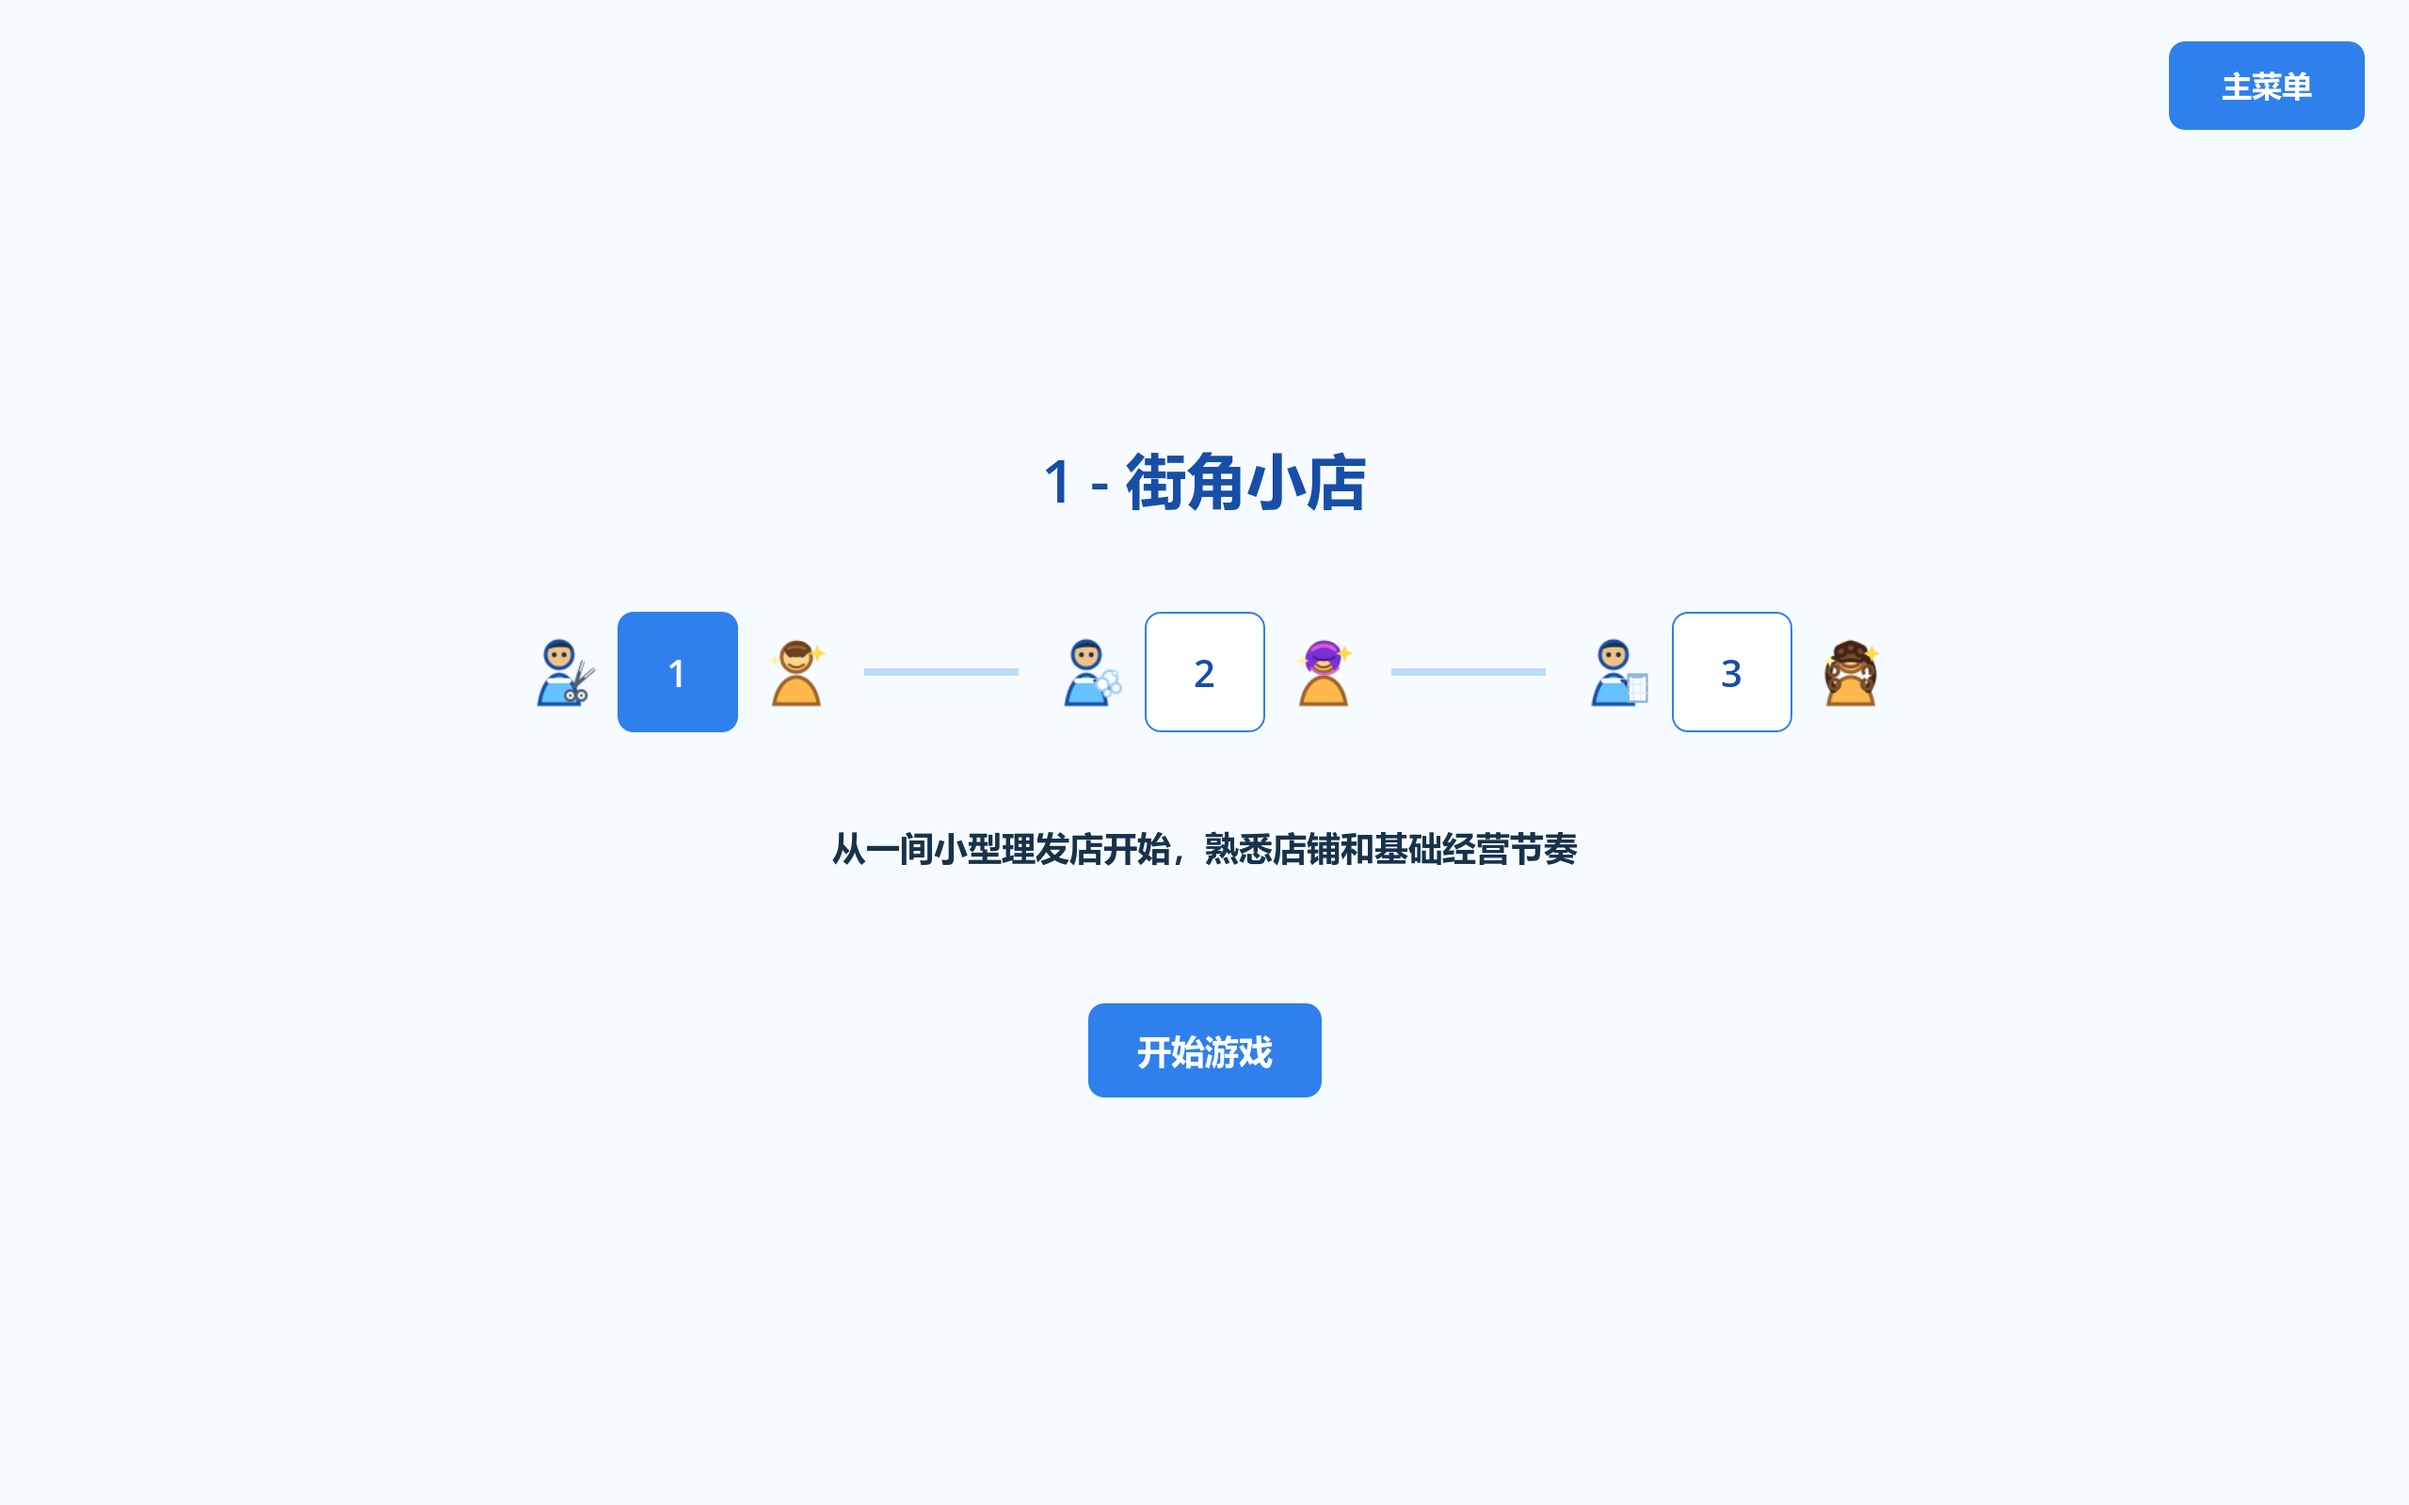
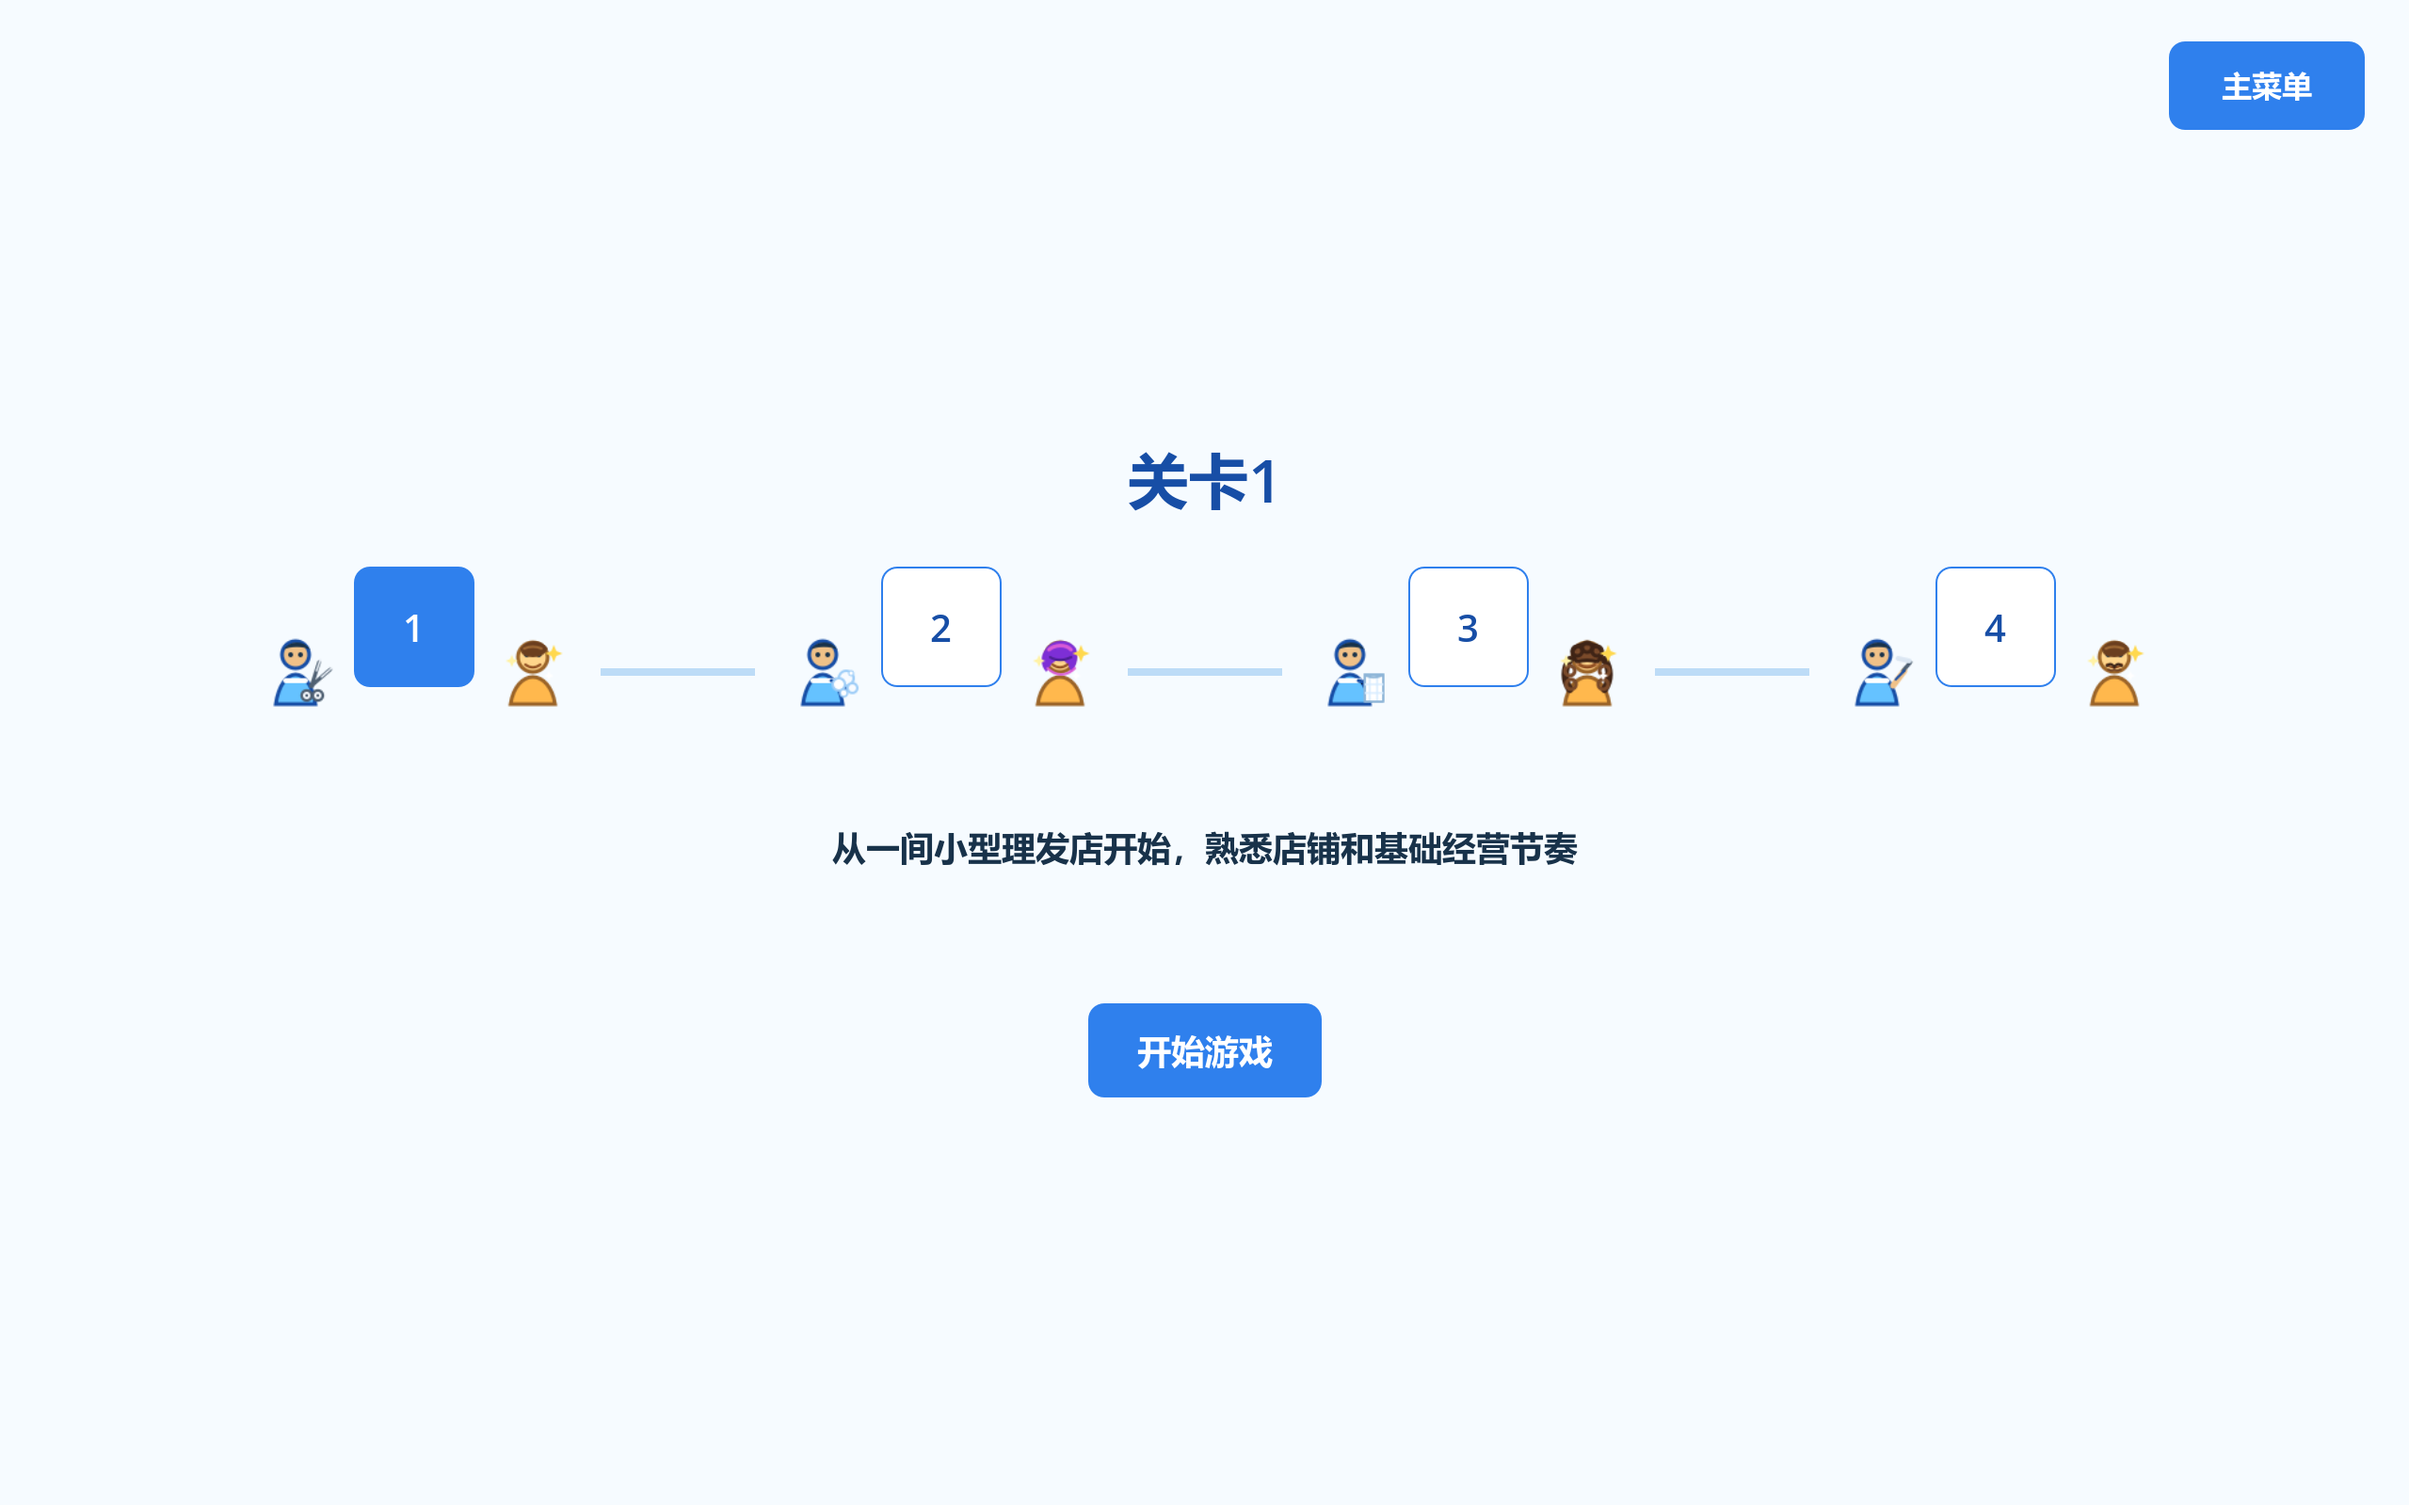
新阳美发沙龙 beta

diff --git a/js/data/product-download-pages.js b/js/data/product-download-pages.js
@@ -39,16 +39,30 @@ var productDownloadPageData = {
             {
                 tabLabel: "Windows版",
                 downloadTitle: "新阳美发沙龙",
-                version: "alpha",
+                version: "beta",
                 supportLabel: "支持系统",
                 supportValue: "Windows",
                 language: "中文(简体)",
                 size: "105 MB",
-                updateDate: "2026.07.18",
+                updateDate: "2026.07.26",
                 downloadLabel: "下 载",
-                downloadHref: "https://pan.quark.cn/s/a390b8d8f50c",
+                downloadHref: "https://pan.quark.cn/s/4cd24078bd4f",
                 thanksText: "感谢您使用 新阳美发沙龙",
                 changelog: [
+                    {
+                        title: "beta (2026.07.26)",
+                        changes: [
+                            "界面优化",
+                            "调整了店铺声誉机制、店员疲劳值和熟练度机制、通关条件、美发收益等",
+                            "点击店员可使其主动休息或工作",
+                            "添加倒垃圾机制",
+                            "关卡指引优化，且通关后不再显示关卡指引",
+                            "店铺卫生影响顾客进店，且在部分关卡中可能被罚款",
+                            "增加新的关卡，并添加了消毒柜以及有剃须需求顾客",
+                            "修复店员名字可能重复的问题",
+                            "修复储物柜容量问题"
+                        ]
+                    },
                     {
                         title: "alpha (2026.07.18)",
                         changes: [

diff --git a/pages/about.html b/pages/about.html
@@ -34,7 +34,7 @@
             <p class="tx3">
                 &nbsp;&nbsp;&nbsp;&nbsp;&nbsp;&nbsp;&nbsp;&nbsp;柒幻是一家软件工作室，由李正浩创建于2013年8月31日，总部位于中国哈尔滨。
                 <br/><br/>
-                &nbsp;&nbsp;&nbsp;&nbsp;&nbsp;&nbsp;&nbsp;&nbsp;柒幻以软件研发为主业，坚持以创新为核心，提供软件及相关服务，致力于提高人们的工作效率。主要产品有《柒幻 霜降》、《柒幻 寒露》、《柒幻 麦芒》、《柒幻 谷雨》等。
+                &nbsp;&nbsp;&nbsp;&nbsp;&nbsp;&nbsp;&nbsp;&nbsp;柒幻以软件研发为主业，坚持以创新为核心，提供软件及相关服务，致力于提高人们的工作效率。主要产品有《柒幻 白露》、《柒幻 霜降》、《柒幻 寒露》、《柒幻 麦芒》、《柒幻 扬琴》等。
                 <br/><br/>
             </p>
             <img src="../images/dream7c logo.jpg" width="25%" style="margin-left: 37.5%;">

diff --git a/js/data/product-about-pages.js b/js/data/product-about-pages.js
@@ -262,12 +262,14 @@ var productAboutPageData = {
         title: "关于 新阳美发沙龙",
         intro: "新阳美发沙龙 是一块模拟经营理发店的游戏，玩家通过购买器械并招募店员以满足不同美发需求的顾客。",
         history: [
+            "2026.07.26    新阳美发沙龙 beta",
             "2026.07.18    新阳美发沙龙 alpha",
         ],
         developers: [
             "总设计师 | 李正浩",
             "程序设计 | 李正浩",
-            "平面设计 | 李正浩"
+            "平面设计 | 李正浩",
+            "过程改善 | 刘偌佟",
         ]
     }
 };

diff --git a/js/data/product-ready-banners.js b/js/data/product-ready-banners.js
@@ -13,8 +13,8 @@ var productReadyBannerData = {
     XYHS: {
         brand: "",
         name: "新阳美发沙龙",
-        version: "alpha",
-        date: "2026.07.18",
+        version: "beta",
+        date: "2026.07.26",
         status: "测试版",
         logoSrc: "../../images/dream7c XYHS logo.png",
         downloadHref: "../../pages/dream7c-XYHS/download.html",

diff --git a/pages/dream7c-XYHS/index.html b/pages/dream7c-XYHS/index.html
@@ -23,6 +23,7 @@
 			<p class="tx2v">游戏截图</p>
 			<div class="tx3v">	
 				<img src="../../images/dream7c XYHS/dream7c XYHS ex3.png" width="100%"><br/><br/>
+				<img src="../../images/dream7c XYHS/dream7c XYHS ex4.png" width="100%"><br/><br/>
 				游戏界面
 			</div>
 			<div style="clear:both;">&nbsp;</div>
